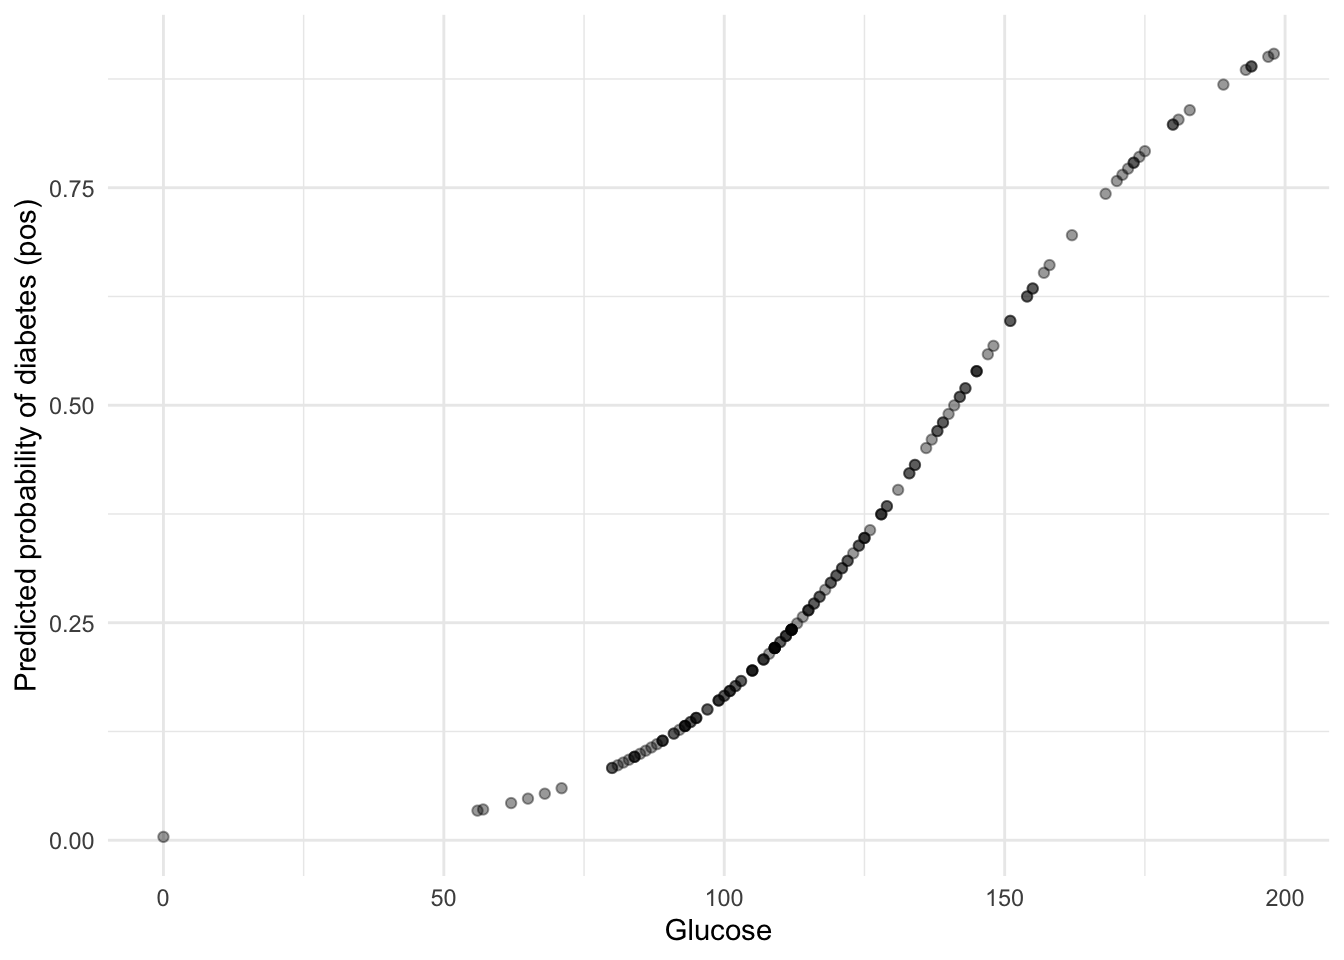
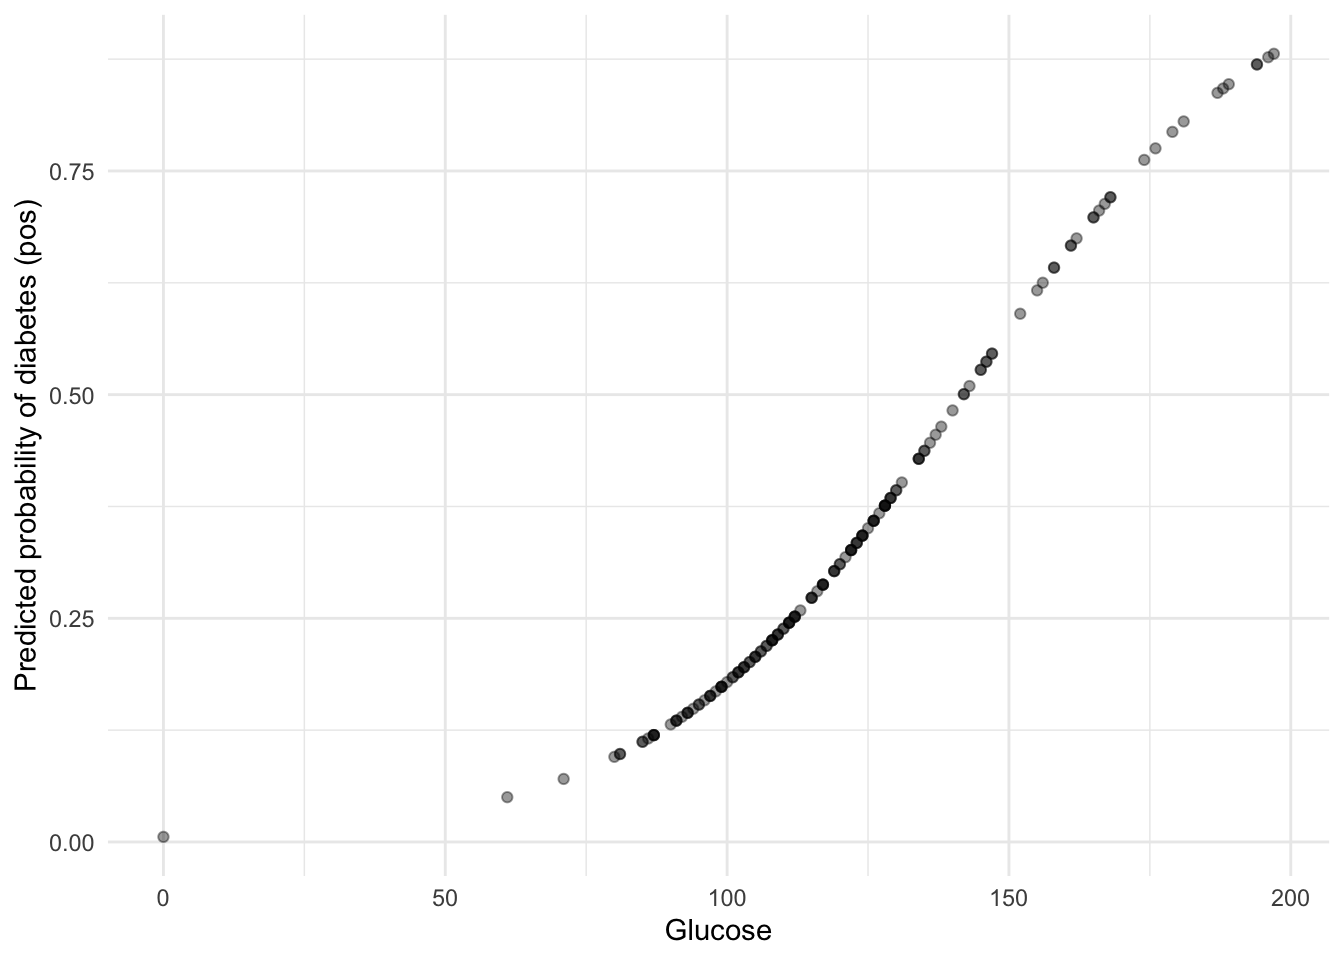
Update logistic regression practical update 4

diff --git a/docs/decision_threshold.html b/docs/decision_threshold.html
@@ -232,7 +232,7 @@ window.Quarto = {
 
 </header><section id="introduction" class="level2"><h2 class="anchored" data-anchor-id="introduction">1. Introduction</h2>
 <p>In logistic regression, the model outputs a <strong>probability</strong>:</p>
-<p><span class="math display">\[\
+<p><span class="math display">\[
 \hat{p}(x) = P(Y=1 \mid x)
 \]</span></p>
 <p>But to turn this probability into a <strong>class prediction</strong>, we must choose a:</p>
@@ -464,7 +464,6 @@ Prediction 0 1
 </div>
 </div>
 </div>
-<p>```</p>
 
 
 <!-- -->
@@ -938,7 +937,7 @@ Prediction 0 1
 <span id="cb22-10"><a href="#cb22-10" aria-hidden="true" tabindex="-1"></a></span>
 <span id="cb22-11"><a href="#cb22-11" aria-hidden="true" tabindex="-1"></a>In logistic regression, the model outputs a **probability**:</span>
 <span id="cb22-12"><a href="#cb22-12" aria-hidden="true" tabindex="-1"></a></span>
-<span id="cb22-13"><a href="#cb22-13" aria-hidden="true" tabindex="-1"></a>$$\</span>
+<span id="cb22-13"><a href="#cb22-13" aria-hidden="true" tabindex="-1"></a>$$</span>
 <span id="cb22-14"><a href="#cb22-14" aria-hidden="true" tabindex="-1"></a>\hat{p}(x) = P(Y=1 \mid x)</span>
 <span id="cb22-15"><a href="#cb22-15" aria-hidden="true" tabindex="-1"></a>$$</span>
 <span id="cb22-16"><a href="#cb22-16" aria-hidden="true" tabindex="-1"></a></span>
@@ -1139,13 +1138,17 @@ Prediction 0 1
 <span id="cb22-233"><a href="#cb22-233" aria-hidden="true" tabindex="-1"></a>  <span class="fu">conf_mat</span>(<span class="at">truth =</span> actual, <span class="at">estimate =</span> predicted)</span>
 <span id="cb22-234"><a href="#cb22-234" aria-hidden="true" tabindex="-1"></a></span>
 <span id="cb22-235"><a href="#cb22-235" aria-hidden="true" tabindex="-1"></a>cm</span>
-<span id="cb22-236"><a href="#cb22-236" aria-hidden="true" tabindex="-1"></a><span class="in">```</span></span>
-<span id="cb22-237"><a href="#cb22-237" aria-hidden="true" tabindex="-1"></a></span>
-<span id="cb22-240"><a href="#cb22-240" aria-hidden="true" tabindex="-1"></a><span class="in">```{r}</span></span>
-<span id="cb22-241"><a href="#cb22-241" aria-hidden="true" tabindex="-1"></a><span class="fu">autoplot</span>(cm, <span class="at">type =</span> <span class="st">"heatmap"</span>) <span class="co">#what other types are there? </span></span>
-<span id="cb22-242"><a href="#cb22-242" aria-hidden="true" tabindex="-1"></a><span class="in">```</span></span>
-<span id="cb22-243"><a href="#cb22-243" aria-hidden="true" tabindex="-1"></a></span>
-<span id="cb22-244"><a href="#cb22-244" aria-hidden="true" tabindex="-1"></a><span class="sc">\`\`\`</span></span>
+<span id="cb22-236"><a href="#cb22-236" aria-hidden="true" tabindex="-1"></a></span>
+<span id="cb22-237"><a href="#cb22-237" aria-hidden="true" tabindex="-1"></a><span class="in">```</span></span>
+<span id="cb22-238"><a href="#cb22-238" aria-hidden="true" tabindex="-1"></a></span>
+<span id="cb22-239"><a href="#cb22-239" aria-hidden="true" tabindex="-1"></a></span>
+<span id="cb22-240"><a href="#cb22-240" aria-hidden="true" tabindex="-1"></a></span>
+<span id="cb22-241"><a href="#cb22-241" aria-hidden="true" tabindex="-1"></a></span>
+<span id="cb22-242"><a href="#cb22-242" aria-hidden="true" tabindex="-1"></a></span>
+<span id="cb22-245"><a href="#cb22-245" aria-hidden="true" tabindex="-1"></a><span class="in">```{r}</span></span>
+<span id="cb22-246"><a href="#cb22-246" aria-hidden="true" tabindex="-1"></a><span class="fu">autoplot</span>(cm, <span class="at">type =</span> <span class="st">"heatmap"</span>) <span class="co">#what other types are there? </span></span>
+<span id="cb22-247"><a href="#cb22-247" aria-hidden="true" tabindex="-1"></a></span>
+<span id="cb22-248"><a href="#cb22-248" aria-hidden="true" tabindex="-1"></a><span class="in">```</span></span>
 </code><button title="Copy to Clipboard" class="code-copy-button" data-in-quarto-modal=""><i class="bi"></i></button></pre></div>
 </div></div></div></div></div>
 </div> <!-- /content -->

diff --git a/docs/tidymodels_sklearn_overview.html b/docs/tidymodels_sklearn_overview.html
@@ -345,11 +345,11 @@ Call:  stats::glm(formula = diabetes ~ glucose, family = stats::binomial,
 
 Coefficients:
 (Intercept)      glucose  
-    5.54880     -0.03935  
+    5.16115     -0.03636  
 
 Degrees of Freedom: 613 Total (i.e. Null);  612 Residual
 Null Deviance:      793.9 
-Residual Deviance: 638.2    AIC: 642.2</code></pre>
+Residual Deviance: 650.6    AIC: 654.6</code></pre>
 </div>
 </div>
 <p>Inspect the coefficients (these are <strong>log-odds / logit</strong> coefficients):</p>
@@ -360,8 +360,8 @@ Residual Deviance: 638.2    AIC: 642.2</code></pre>
 <pre><code># A tibble: 2 × 5
   term        estimate std.error statistic  p.value
   &lt;chr&gt;          &lt;dbl&gt;     &lt;dbl&gt;     &lt;dbl&gt;    &lt;dbl&gt;
-1 (Intercept)   5.55     0.481        11.5 8.47e-31
-2 glucose      -0.0393   0.00371     -10.6 2.53e-26</code></pre>
+1 (Intercept)   5.16     0.456        11.3 1.14e-29
+2 glucose      -0.0364   0.00352     -10.3 4.49e-25</code></pre>
 </div>
 </div>
 </section><section id="making-predictions-in-a-consistent-way" class="level3"><h3 class="anchored" data-anchor-id="making-predictions-in-a-consistent-way">2.4 Making predictions in a consistent way</h3>
@@ -377,12 +377,12 @@ Residual Deviance: 638.2    AIC: 642.2</code></pre>
 <pre><code># A tibble: 6 × 6
   .pred_pos .pred_neg glucose  mass   age diabetes
       &lt;dbl&gt;     &lt;dbl&gt;   &lt;dbl&gt; &lt;dbl&gt; &lt;dbl&gt; &lt;fct&gt;   
-1     0.568     0.432     148  33.6    50 pos     
-2     0.839     0.161     183  23.3    32 pos     
-3     0.264     0.736     115  35.3    29 neg     
-4     0.228     0.772     110  37.6    30 neg     
-5     0.743     0.257     168  38      34 pos     
-6     0.288     0.712     118  45.8    31 pos     </code></pre>
+1     0.721     0.279     168  38      34 pos     
+2     0.273     0.727     115  34.6    32 pos     
+3     0.359     0.641     126  39.3    27 neg     
+4     0.877     0.123     196  39.8    41 pos     
+5     0.303     0.697     119  29      29 pos     
+6     0.351     0.649     125  31.1    41 pos     </code></pre>
 </div>
 </div>
 <p>We can visualise predicted probability vs.&nbsp;glucose:</p>
